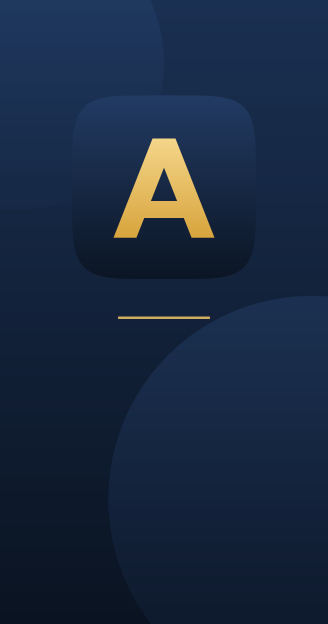
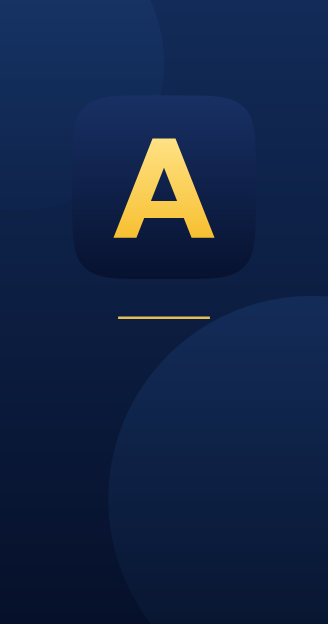
Marka: canlı lacivert ve parlak altın (simge, sihirbaz, masa, başlangıç, eklenti) (#43)
simge.py yeni renklerle: zemin #183064→#071230, altın A #FFE48A→#F7BE2D;
sihirbaz degradesi ve daireleri aynı lacivert ailesinde. Üretilenler
yeniden yazıldı: arthurlegal.ico, sihirbaz.png, sihirbaz-kucuk.png
(piksel afişler değişmedi). Masa kopyası app4all 8c19d57'den (al.css
canlı palet, arma; ayrıca geride kalan d81c250 Tapu açıklaması).
Başlangıç sayfası TR/EN: lacivert #12285a, altın açıkta #b58300, koyuda
#f7c948, koyu zeminler aynı lacivert ailesinden, arma yeni renklerde.
Claude eklentisi: logo.png yeni simgeden, sürüm 1.12.7 (paket aynı,
sınav koşmaz).

Changed region(s): [[0.3354, 0.3045, 0.6707, 0.3958]]

diff --git a/ArthurLegal-setup/kurulum/rehber-en.html b/ArthurLegal-setup/kurulum/rehber-en.html
@@ -5,19 +5,19 @@
 <meta name="viewport" content="width=device-width, initial-scale=1">
 <title>{{URUN}} Start</title>
 <style>
-:root{--zemin:#f6f4ee;--kart:#fff;--yazi:#1b2433;--soluk:#5b6576;--lacivert:#14233c;--altin:#b08d3c;--cizgi:#e3dfd3;--kod:#f1eee6;--yesil:#2e7d4f}
-@media (prefers-color-scheme:dark){:root{--zemin:#0e1522;--kart:#16202f;--yazi:#e8e4da;--soluk:#9aa4b4;--lacivert:#e8e4da;--altin:#d4b36a;--cizgi:#26334a;--kod:#1c2839;--yesil:#57c08a}}
+:root{--zemin:#f6f4ee;--kart:#fff;--yazi:#1b2433;--soluk:#5b6576;--lacivert:#12285a;--altin:#b58300;--cizgi:#e3dfd3;--kod:#f1eee6;--yesil:#2e7d4f}
+@media (prefers-color-scheme:dark){:root{--zemin:#0a1430;--kart:#0e1d3d;--yazi:#e8e4da;--soluk:#9aa4b4;--lacivert:#e8e4da;--altin:#f7c948;--cizgi:#22396a;--kod:#142749;--yesil:#57c08a}}
 *{box-sizing:border-box}body{margin:0;background:var(--zemin);color:var(--yazi);font:16px/1.6 "Segoe UI",system-ui,sans-serif}
 main{max-width:880px;margin:0 auto;padding:36px 16px 64px}
 .baslik-kart{display:flex;align-items:center;gap:18px;max-width:840px;background:var(--kart);border:1px solid var(--cizgi);border-bottom:0;border-radius:14px 14px 0 0;padding:20px 24px}
 .baslik-kart svg{width:64px;height:64px;flex:none}
 .baslik-kart .ad{font-size:32px;font-weight:700;letter-spacing:-.02em;line-height:1.1;color:var(--lacivert)}
 .baslik-kart .ad span{color:var(--altin)}.baslik-kart .alt{font-size:15px;color:var(--soluk);margin-top:2px}
-a.rehber-pdf{display:flex;align-items:center;gap:18px;margin:22px 0 0;padding:22px 26px;background:#14233c;color:#fff;border:2px solid #b08d3c;border-radius:14px;text-decoration:none}
-a.rehber-pdf:hover{background:#1c3152}a.rehber-pdf svg{width:46px;height:46px;flex:none}
+a.rehber-pdf{display:flex;align-items:center;gap:18px;margin:22px 0 0;padding:22px 26px;background:#12285a;color:#fff;border:2px solid #f7c948;border-radius:14px;text-decoration:none}
+a.rehber-pdf:hover{background:#1a3470}a.rehber-pdf svg{width:46px;height:46px;flex:none}
 a.rehber-pdf b{display:block;font-size:24px;line-height:1.25}
 a.rehber-pdf small{display:block;font-size:15px;line-height:1.45;color:#c9d3e0;margin-top:4px}
-a.rehber-pdf .ok{margin-left:auto;font-size:30px;color:#d4b36a}
+a.rehber-pdf .ok{margin-left:auto;font-size:30px;color:#f7c948}
 figure.masa{margin:16px 0 0}figure.masa img{display:block;width:100%;height:auto;border:1px solid var(--cizgi);border-radius:12px;box-shadow:0 6px 24px rgba(13,24,38,.08)}
 figure.masa figcaption{font-size:14px;color:var(--soluk);margin-top:6px}
 .serit{display:flex;height:8px;border-radius:0 0 8px 8px;overflow:hidden;max-width:840px}.serit i{flex:1}
@@ -40,14 +40,14 @@ li{margin:6px 0}footer{margin-top:44px;color:var(--soluk);font-size:14px}
 #durum b{display:block;font-size:12px;letter-spacing:.06em;text-transform:uppercase;color:var(--soluk);font-weight:600}
 #durum span{font-size:15px}
 .dil{text-align:right;margin:0 0 10px;font-size:14px}.dil a{color:var(--lacivert)}
-#paketler .kart{margin:8px 0}.odak{border:2px solid var(--altin)!important;box-shadow:0 0 0 3px rgba(176,141,60,.18)}
+#paketler .kart{margin:8px 0}.odak{border:2px solid var(--altin)!important;box-shadow:0 0 0 3px rgba(181,131,0,.2)}
 </style>
 </head>
 <body>
 <main>
 <nav class="dil" lang="tr"><a href="baslangic.html">Türkçe</a></nav>
 <header>
-  <div class="baslik-kart"><svg class="simge" viewBox="0 0 100 100" role="img" aria-label="ArthurLegal arması"><defs><linearGradient id="alArmaZ" x1="0" y1="0" x2="0" y2="1"><stop offset="0" stop-color="#223B63"/><stop offset="1" stop-color="#0B1524"/></linearGradient><linearGradient id="alArmaA" x1="0" y1="0.2" x2="0" y2="0.8"><stop offset="0" stop-color="#F6D98E"/><stop offset="1" stop-color="#D6A23A"/></linearGradient></defs><path fill="url(#alArmaZ)" d="M100.00 50.00L99.90 69.75L99.61 76.01L99.13 80.49L98.44 84.05L97.55 87.01L96.44 89.52L95.11 91.68L93.53 93.53L91.68 95.11L89.52 96.44L87.01 97.55L84.05 98.44L80.49 99.13L76.01 99.61L69.75 99.90L50.00 100.00L30.25 99.90L23.99 99.61L19.51 99.13L15.95 98.44L12.99 97.55L10.48 96.44L8.32 95.11L6.47 93.53L4.89 91.68L3.56 89.52L2.45 87.01L1.56 84.05L0.87 80.49L0.39 76.01L0.10 69.75L0.00 50.00L0.10 30.25L0.39 23.99L0.87 19.51L1.56 15.95L2.45 12.99L3.56 10.48L4.89 8.32L6.47 6.47L8.32 4.89L10.48 3.56L12.99 2.45L15.95 1.56L19.51 0.87L23.99 0.39L30.25 0.10L50.00 0.00L69.75 0.10L76.01 0.39L80.49 0.87L84.05 1.56L87.01 2.45L89.52 3.56L91.68 4.89L93.53 6.47L95.11 8.32L96.44 10.48L97.55 12.99L98.44 15.95L99.13 19.51L99.61 23.99L99.90 30.25Z"/><path fill="url(#alArmaA)" d="M43.75 23.50L56.25 23.50L35.00 77.50L22.50 77.50ZM43.75 23.50L56.25 23.50L77.50 77.50L65.00 77.50ZM30.50 57.50L69.50 57.50L69.50 66.75L30.50 66.75Z"/></svg><div><div class="ad">Arthur<span>Legal</span></div><div class="alt">Open source legal AI</div></div></div>
+  <div class="baslik-kart"><svg class="simge" viewBox="0 0 100 100" role="img" aria-label="ArthurLegal arması"><defs><linearGradient id="alArmaZ" x1="0" y1="0" x2="0" y2="1"><stop offset="0" stop-color="#183064"/><stop offset="1" stop-color="#071230"/></linearGradient><linearGradient id="alArmaA" x1="0" y1="0.2" x2="0" y2="0.8"><stop offset="0" stop-color="#FFE48A"/><stop offset="1" stop-color="#F7BE2D"/></linearGradient></defs><path fill="url(#alArmaZ)" d="M100.00 50.00L99.90 69.75L99.61 76.01L99.13 80.49L98.44 84.05L97.55 87.01L96.44 89.52L95.11 91.68L93.53 93.53L91.68 95.11L89.52 96.44L87.01 97.55L84.05 98.44L80.49 99.13L76.01 99.61L69.75 99.90L50.00 100.00L30.25 99.90L23.99 99.61L19.51 99.13L15.95 98.44L12.99 97.55L10.48 96.44L8.32 95.11L6.47 93.53L4.89 91.68L3.56 89.52L2.45 87.01L1.56 84.05L0.87 80.49L0.39 76.01L0.10 69.75L0.00 50.00L0.10 30.25L0.39 23.99L0.87 19.51L1.56 15.95L2.45 12.99L3.56 10.48L4.89 8.32L6.47 6.47L8.32 4.89L10.48 3.56L12.99 2.45L15.95 1.56L19.51 0.87L23.99 0.39L30.25 0.10L50.00 0.00L69.75 0.10L76.01 0.39L80.49 0.87L84.05 1.56L87.01 2.45L89.52 3.56L91.68 4.89L93.53 6.47L95.11 8.32L96.44 10.48L97.55 12.99L98.44 15.95L99.13 19.51L99.61 23.99L99.90 30.25Z"/><path fill="url(#alArmaA)" d="M43.75 23.50L56.25 23.50L35.00 77.50L22.50 77.50ZM43.75 23.50L56.25 23.50L77.50 77.50L65.00 77.50ZM30.50 57.50L69.50 57.50L69.50 66.75L30.50 66.75Z"/></svg><div><div class="ad">Arthur<span>Legal</span></div><div class="alt">Open source legal AI</div></div></div>
   <div class="serit"><i style="background:#c8453b"></i><i style="background:#f29b4b"></i><i style="background:#ffe066"></i><i style="background:#3fae6a"></i><i style="background:#5ec8e5"></i><i style="background:#3b7dd8"></i><i style="background:#7b5cc4"></i><i style="background:#b45a9a"></i></div>
 </header>
 
@@ -57,7 +57,7 @@ li{margin:6px 0}footer{margin-top:44px;color:var(--soluk);font-size:14px}
 
 <p data-arayuz="yeni" class="onemli"><b>Important: press Enter to open the desk.</b> When Claude Desktop opens, <i>ArthurLegal Masası'nı aç</i> is already typed in the message box; the message is not sent by itself. Press Enter every time you open it with the <i>{{URUN}}</i> desktop icon, too.</p>
 
-<a class="rehber-pdf" href="https://github.com/beerbottle90/ArthurLegal/blob/main/docs/rehber/ArthurLegal-Kullanici-Rehberi.pdf" target="_blank" rel="noopener"><svg viewBox="0 0 24 24" fill="none" stroke="#d4b36a" stroke-width="1.8" stroke-linecap="round" stroke-linejoin="round" aria-hidden="true"><path d="M14 3H7a2 2 0 0 0-2 2v14a2 2 0 0 0 2 2h10a2 2 0 0 0 2-2V8z"/><path d="M14 3v5h5"/><path d="M9 13h6M9 17h4"/></svg><span><b>User guide (PDF, in Turkish)</b><small>Setup, the ArthurLegal desk, Arthur Mask, the UYAP Dashboard and frequently asked questions in one document · opens on GitHub</small></span><span class="ok" aria-hidden="true">→</span></a>
+<a class="rehber-pdf" href="https://github.com/beerbottle90/ArthurLegal/blob/main/docs/rehber/ArthurLegal-Kullanici-Rehberi.pdf" target="_blank" rel="noopener"><svg viewBox="0 0 24 24" fill="none" stroke="#f7c948" stroke-width="1.8" stroke-linecap="round" stroke-linejoin="round" aria-hidden="true"><path d="M14 3H7a2 2 0 0 0-2 2v14a2 2 0 0 0 2 2h10a2 2 0 0 0 2-2V8z"/><path d="M14 3v5h5"/><path d="M9 13h6M9 17h4"/></svg><span><b>User guide (PDF, in Turkish)</b><small>Setup, the ArthurLegal desk, Arthur Mask, the UYAP Dashboard and frequently asked questions in one document · opens on GitHub</small></span><span class="ok" aria-hidden="true">→</span></a>
 
 <p data-arayuz="yeni"><b>ArthurLegal desk.</b> The <i>{{URUN}}</i> icon on the desktop opens Claude Desktop with <i>ArthurLegal Masası'nı aç</i> already typed; press Enter and the desk opens full screen: modules on the left (legislation and citations, case law, Tapu, Memory, Arthur Mask, UYAP, Donna), the steps in the middle, Claude's message box at the bottom. Every click on the icon also opens this page in the browser.</p>
 <figure data-arayuz="yeni" class="masa"><img src="masa.png" width="1200" height="879" alt="The opening screen of the ArthurLegal desk: modules on the left, cards to start work in the middle"><figcaption>The desk's opening screen (light theme; dark and automatic at the bottom left).</figcaption></figure>

diff --git a/ArthurLegal-setup/kurulum/rehber.html b/ArthurLegal-setup/kurulum/rehber.html
@@ -5,19 +5,19 @@
 <meta name="viewport" content="width=device-width, initial-scale=1">
 <title>{{URUN}} Başlangıç</title>
 <style>
-:root{--zemin:#f6f4ee;--kart:#fff;--yazi:#1b2433;--soluk:#5b6576;--lacivert:#14233c;--altin:#b08d3c;--cizgi:#e3dfd3;--kod:#f1eee6;--yesil:#2e7d4f}
-@media (prefers-color-scheme:dark){:root{--zemin:#0e1522;--kart:#16202f;--yazi:#e8e4da;--soluk:#9aa4b4;--lacivert:#e8e4da;--altin:#d4b36a;--cizgi:#26334a;--kod:#1c2839;--yesil:#57c08a}}
+:root{--zemin:#f6f4ee;--kart:#fff;--yazi:#1b2433;--soluk:#5b6576;--lacivert:#12285a;--altin:#b58300;--cizgi:#e3dfd3;--kod:#f1eee6;--yesil:#2e7d4f}
+@media (prefers-color-scheme:dark){:root{--zemin:#0a1430;--kart:#0e1d3d;--yazi:#e8e4da;--soluk:#9aa4b4;--lacivert:#e8e4da;--altin:#f7c948;--cizgi:#22396a;--kod:#142749;--yesil:#57c08a}}
 *{box-sizing:border-box}body{margin:0;background:var(--zemin);color:var(--yazi);font:16px/1.6 "Segoe UI",system-ui,sans-serif}
 main{max-width:880px;margin:0 auto;padding:36px 16px 64px}
 .baslik-kart{display:flex;align-items:center;gap:18px;max-width:840px;background:var(--kart);border:1px solid var(--cizgi);border-bottom:0;border-radius:14px 14px 0 0;padding:20px 24px}
 .baslik-kart svg{width:64px;height:64px;flex:none}
 .baslik-kart .ad{font-size:32px;font-weight:700;letter-spacing:-.02em;line-height:1.1;color:var(--lacivert)}
 .baslik-kart .ad span{color:var(--altin)}.baslik-kart .alt{font-size:15px;color:var(--soluk);margin-top:2px}
-a.rehber-pdf{display:flex;align-items:center;gap:18px;margin:22px 0 0;padding:22px 26px;background:#14233c;color:#fff;border:2px solid #b08d3c;border-radius:14px;text-decoration:none}
-a.rehber-pdf:hover{background:#1c3152}a.rehber-pdf svg{width:46px;height:46px;flex:none}
+a.rehber-pdf{display:flex;align-items:center;gap:18px;margin:22px 0 0;padding:22px 26px;background:#12285a;color:#fff;border:2px solid #f7c948;border-radius:14px;text-decoration:none}
+a.rehber-pdf:hover{background:#1a3470}a.rehber-pdf svg{width:46px;height:46px;flex:none}
 a.rehber-pdf b{display:block;font-size:24px;line-height:1.25}
 a.rehber-pdf small{display:block;font-size:15px;line-height:1.45;color:#c9d3e0;margin-top:4px}
-a.rehber-pdf .ok{margin-left:auto;font-size:30px;color:#d4b36a}
+a.rehber-pdf .ok{margin-left:auto;font-size:30px;color:#f7c948}
 figure.masa{margin:16px 0 0}figure.masa img{display:block;width:100%;height:auto;border:1px solid var(--cizgi);border-radius:12px;box-shadow:0 6px 24px rgba(13,24,38,.08)}
 figure.masa figcaption{font-size:14px;color:var(--soluk);margin-top:6px}
 .serit{display:flex;height:8px;border-radius:0 0 8px 8px;overflow:hidden;max-width:840px}.serit i{flex:1}
@@ -40,14 +40,14 @@ li{margin:6px 0}footer{margin-top:44px;color:var(--soluk);font-size:14px}
 #durum b{display:block;font-size:12px;letter-spacing:.06em;text-transform:uppercase;color:var(--soluk);font-weight:600}
 #durum span{font-size:15px}
 .dil{text-align:right;margin:0 0 10px;font-size:14px}.dil a{color:var(--lacivert)}
-#paketler .kart{margin:8px 0}.odak{border:2px solid var(--altin)!important;box-shadow:0 0 0 3px rgba(176,141,60,.18)}
+#paketler .kart{margin:8px 0}.odak{border:2px solid var(--altin)!important;box-shadow:0 0 0 3px rgba(181,131,0,.2)}
 </style>
 </head>
 <body>
 <main>
 <nav class="dil" lang="en"><a href="baslangic-en.html">English</a></nav>
 <header>
-  <div class="baslik-kart"><svg class="simge" viewBox="0 0 100 100" role="img" aria-label="ArthurLegal arması"><defs><linearGradient id="alArmaZ" x1="0" y1="0" x2="0" y2="1"><stop offset="0" stop-color="#223B63"/><stop offset="1" stop-color="#0B1524"/></linearGradient><linearGradient id="alArmaA" x1="0" y1="0.2" x2="0" y2="0.8"><stop offset="0" stop-color="#F6D98E"/><stop offset="1" stop-color="#D6A23A"/></linearGradient></defs><path fill="url(#alArmaZ)" d="M100.00 50.00L99.90 69.75L99.61 76.01L99.13 80.49L98.44 84.05L97.55 87.01L96.44 89.52L95.11 91.68L93.53 93.53L91.68 95.11L89.52 96.44L87.01 97.55L84.05 98.44L80.49 99.13L76.01 99.61L69.75 99.90L50.00 100.00L30.25 99.90L23.99 99.61L19.51 99.13L15.95 98.44L12.99 97.55L10.48 96.44L8.32 95.11L6.47 93.53L4.89 91.68L3.56 89.52L2.45 87.01L1.56 84.05L0.87 80.49L0.39 76.01L0.10 69.75L0.00 50.00L0.10 30.25L0.39 23.99L0.87 19.51L1.56 15.95L2.45 12.99L3.56 10.48L4.89 8.32L6.47 6.47L8.32 4.89L10.48 3.56L12.99 2.45L15.95 1.56L19.51 0.87L23.99 0.39L30.25 0.10L50.00 0.00L69.75 0.10L76.01 0.39L80.49 0.87L84.05 1.56L87.01 2.45L89.52 3.56L91.68 4.89L93.53 6.47L95.11 8.32L96.44 10.48L97.55 12.99L98.44 15.95L99.13 19.51L99.61 23.99L99.90 30.25Z"/><path fill="url(#alArmaA)" d="M43.75 23.50L56.25 23.50L35.00 77.50L22.50 77.50ZM43.75 23.50L56.25 23.50L77.50 77.50L65.00 77.50ZM30.50 57.50L69.50 57.50L69.50 66.75L30.50 66.75Z"/></svg><div><div class="ad">Arthur<span>Legal</span></div><div class="alt">Açık kaynak hukuk yapay zekâsı</div></div></div>
+  <div class="baslik-kart"><svg class="simge" viewBox="0 0 100 100" role="img" aria-label="ArthurLegal arması"><defs><linearGradient id="alArmaZ" x1="0" y1="0" x2="0" y2="1"><stop offset="0" stop-color="#183064"/><stop offset="1" stop-color="#071230"/></linearGradient><linearGradient id="alArmaA" x1="0" y1="0.2" x2="0" y2="0.8"><stop offset="0" stop-color="#FFE48A"/><stop offset="1" stop-color="#F7BE2D"/></linearGradient></defs><path fill="url(#alArmaZ)" d="M100.00 50.00L99.90 69.75L99.61 76.01L99.13 80.49L98.44 84.05L97.55 87.01L96.44 89.52L95.11 91.68L93.53 93.53L91.68 95.11L89.52 96.44L87.01 97.55L84.05 98.44L80.49 99.13L76.01 99.61L69.75 99.90L50.00 100.00L30.25 99.90L23.99 99.61L19.51 99.13L15.95 98.44L12.99 97.55L10.48 96.44L8.32 95.11L6.47 93.53L4.89 91.68L3.56 89.52L2.45 87.01L1.56 84.05L0.87 80.49L0.39 76.01L0.10 69.75L0.00 50.00L0.10 30.25L0.39 23.99L0.87 19.51L1.56 15.95L2.45 12.99L3.56 10.48L4.89 8.32L6.47 6.47L8.32 4.89L10.48 3.56L12.99 2.45L15.95 1.56L19.51 0.87L23.99 0.39L30.25 0.10L50.00 0.00L69.75 0.10L76.01 0.39L80.49 0.87L84.05 1.56L87.01 2.45L89.52 3.56L91.68 4.89L93.53 6.47L95.11 8.32L96.44 10.48L97.55 12.99L98.44 15.95L99.13 19.51L99.61 23.99L99.90 30.25Z"/><path fill="url(#alArmaA)" d="M43.75 23.50L56.25 23.50L35.00 77.50L22.50 77.50ZM43.75 23.50L56.25 23.50L77.50 77.50L65.00 77.50ZM30.50 57.50L69.50 57.50L69.50 66.75L30.50 66.75Z"/></svg><div><div class="ad">Arthur<span>Legal</span></div><div class="alt">Açık kaynak hukuk yapay zekâsı</div></div></div>
   <div class="serit"><i style="background:#c8453b"></i><i style="background:#f29b4b"></i><i style="background:#ffe066"></i><i style="background:#3fae6a"></i><i style="background:#5ec8e5"></i><i style="background:#3b7dd8"></i><i style="background:#7b5cc4"></i><i style="background:#b45a9a"></i></div>
 </header>
 
@@ -57,7 +57,7 @@ li{margin:6px 0}footer{margin-top:44px;color:var(--soluk);font-size:14px}
 
 <p data-arayuz="yeni" class="onemli"><b>Önemli: masayı açmak için Enter'a basın.</b> Claude Desktop açıldığında yazma kutusunda <i>ArthurLegal Masası'nı aç</i> yazılı gelir; mesaj kendiliğinden gönderilmez. Masaüstündeki <i>{{URUN}}</i> simgesiyle her açılışta da Enter'a basın.</p>
 
-<a class="rehber-pdf" href="https://github.com/beerbottle90/ArthurLegal/blob/main/docs/rehber/ArthurLegal-Kullanici-Rehberi.pdf" target="_blank" rel="noopener"><svg viewBox="0 0 24 24" fill="none" stroke="#d4b36a" stroke-width="1.8" stroke-linecap="round" stroke-linejoin="round" aria-hidden="true"><path d="M14 3H7a2 2 0 0 0-2 2v14a2 2 0 0 0 2 2h10a2 2 0 0 0 2-2V8z"/><path d="M14 3v5h5"/><path d="M9 13h6M9 17h4"/></svg><span><b>Kullanıcı Rehberi (PDF)</b><small>Kurulum, ArthurLegal Masası, Arthur Mask, UYAP Dashboard ve sık sorulanlar tek belgede · GitHub'da açılır</small></span><span class="ok" aria-hidden="true">→</span></a>
+<a class="rehber-pdf" href="https://github.com/beerbottle90/ArthurLegal/blob/main/docs/rehber/ArthurLegal-Kullanici-Rehberi.pdf" target="_blank" rel="noopener"><svg viewBox="0 0 24 24" fill="none" stroke="#f7c948" stroke-width="1.8" stroke-linecap="round" stroke-linejoin="round" aria-hidden="true"><path d="M14 3H7a2 2 0 0 0-2 2v14a2 2 0 0 0 2 2h10a2 2 0 0 0 2-2V8z"/><path d="M14 3v5h5"/><path d="M9 13h6M9 17h4"/></svg><span><b>Kullanıcı Rehberi (PDF)</b><small>Kurulum, ArthurLegal Masası, Arthur Mask, UYAP Dashboard ve sık sorulanlar tek belgede · GitHub'da açılır</small></span><span class="ok" aria-hidden="true">→</span></a>
 
 <p data-arayuz="yeni"><b>ArthurLegal Masası.</b> Masaüstündeki <i>{{URUN}}</i> simgesi Claude Desktop'u <i>ArthurLegal Masası'nı aç</i> mesajı yazılmış olarak açar; Enter'a basınca masa tam ekran açılır: solda modüller (mevzuat ve atıf, içtihat, Tapu, Hafıza, Arthur Mask, UYAP, Donna), ortada iş adımları, altta Claude'un yazma kutusu. Simge her tıklamada bu sayfayı da tarayıcıda açar.</p>
 <figure data-arayuz="yeni" class="masa"><img src="masa.png" width="1200" height="879" alt="ArthurLegal Masası'nın açılış ekranı: solda modüller, ortada işe başlama kartları"><figcaption>Masanın açılış ekranı (açık tema; koyu ve otomatik sol altta).</figcaption></figure>

diff --git a/ArthurLegal-setup/istemci/arayuz/ortak/tasarim/al.css b/ArthurLegal-setup/istemci/arayuz/ortak/tasarim/al.css
@@ -2,6 +2,8 @@
 
    Açık tema (varsayılan): beyaz zemin, siyah yazı; renkler ArthurLegal Kullanıcı Rehberi'nden.
    Koyu tema: AL lacivertinin üstünde kırık beyaz yazı, altın aynı kalır.
+   Renkler 30.10.2026'da canlandı: lacivert maviye kaymadan doygun (#12285a), altın parlak (#f7c948);
+   arma simge.py'den (#183064→#071230 zemin, #FFE48A→#F7BE2D altın).
    Biçim: Apple/Microsoft gibi yumuşak yüzeyler, kapsül düğmeler, cihazın sistem yazı tipi.
    Tema seçimi al.js'tedir: <html data-tema="acik|koyu">. */
 
@@ -10,20 +12,20 @@
   --yuzey: #ffffff;
   --grup: #f6f5f1;
   --grup-ust: #efede6;
-  --alan: rgb(224 178 76 / 0.12);
+  --alan: rgb(247 201 72 / 0.12);
   --cizgi: rgb(13 24 38 / 0.10);
   --cizgi-guclu: rgb(13 24 38 / 0.18);
   --metin: #0d1117;
   --ikincil: #4b5565;
   --soluk: #808a99;
-  --altin: #e0b24c;
-  --altin-metin: #87621f;
-  --lacivert: #0d1826;
-  --birincil: #0d1826;
+  --altin: #f7c948;
+  --altin-metin: #8a6400;
+  --lacivert: #12285a;
+  --birincil: #12285a;
   --birincil-yazi: #ffffff;
   --dolgu: rgb(118 118 128 / 0.12);
   --dolgu-ust: rgb(118 118 128 / 0.20);
-  --secili: rgb(224 178 76 / 0.16);
+  --secili: rgb(247 201 72 / 0.16);
   --nane-metin: #1f7a52;   --nane-zemin: #eaf6f0;
   --amber-metin: #87621f;  --amber-zemin: #fbf3e0;
   --kirmizi-metin: #b43d2a; --kirmizi-zemin: #fceeeb;
@@ -49,23 +51,23 @@
 }
 
 :root[data-tema="koyu"] {
-  --zemin: #0b1220;
-  --yuzey: #111a2b;
-  --grup: #172238;
-  --grup-ust: #1d2a44;
-  --alan: rgb(224 178 76 / 0.12);
+  --zemin: #0a1430;
+  --yuzey: #0e1d3d;
+  --grup: #142749;
+  --grup-ust: #1a3057;
+  --alan: rgb(247 201 72 / 0.12);
   --cizgi: rgb(255 255 255 / 0.08);
   --cizgi-guclu: rgb(255 255 255 / 0.16);
   --metin: #f2f4f8;
   --ikincil: #a7b3c6;
   --soluk: #7c889c;
-  --altin-metin: #e7c26a;
+  --altin-metin: #f7cd55;
   --lacivert: #e8e4da;
-  --birincil: #e0b24c;
-  --birincil-yazi: #0b1220;
+  --birincil: #f7c948;
+  --birincil-yazi: #0a1430;
   --dolgu: rgb(255 255 255 / 0.07);
   --dolgu-ust: rgb(255 255 255 / 0.12);
-  --secili: rgb(224 178 76 / 0.16);
+  --secili: rgb(247 201 72 / 0.16);
   --nane-metin: #6fd3a4;   --nane-zemin: rgb(63 169 124 / 0.16);
   --amber-metin: #e7c26a;  --amber-zemin: rgb(224 178 76 / 0.15);
   --kirmizi-metin: #f08a78; --kirmizi-zemin: rgb(229 83 63 / 0.16);

diff --git a/ArthurLegal-setup/istemci/arayuz/ortak/gorunumler/masa.html b/ArthurLegal-setup/istemci/arayuz/ortak/gorunumler/masa.html
@@ -1234,6 +1234,11 @@ body { background: var(--zemin); }
   // ---- ArthurTapu ----
   CIZIM.tapu = (ekran) => {
     const d = modulDurumu("tapu");
+    // Tapu araçları bu uçta yoksa (Claude dizinindeki sürüm) form Claude'a yapamayacağı bir iş bırakmasın.
+    if (d === "masaustu") {
+      ekran.append(bilgi("ArthurTapu bu bağlantıda yok. Parsel sorgusu ArthurLegal kurulumunda ve ArthurLegal'in kendi bağlantısında çalışır."));
+      return;
+    }
     const form = ogesi("form", "form");
     const yer = girdi("text", "Kadıköy Caferağa 123 ada 45 parsel");
     const satir = ogesi("div", "satir");

diff --git a/ArthurLegal-setup/varlik/simge.py b/ArthurLegal-setup/varlik/simge.py
@@ -26,9 +26,10 @@ Renk = Tuple[int, int, int]
 
 ALT = 4                                  # piksel başına alt satır (dikey yumuşatma)
 
-# AL renkleri (kullanıcı rehberi): lacivert zemin, altın işaret.
-ZEMIN_UST, ZEMIN_ALT = (0x22, 0x3B, 0x63), (0x0B, 0x15, 0x24)
-ALTIN_UST, ALTIN_ALT = (0xF6, 0xD9, 0x8E), (0xD6, 0xA2, 0x3A)
+# AL renkleri: canlı lacivert zemin (maviye kaymaz), parlak altın işaret (30.10.2026; önceki #223B63→#0B1524,
+# #F6D98E→#D6A23A soluk kalıyordu).
+ZEMIN_UST, ZEMIN_ALT = (0x18, 0x30, 0x64), (0x07, 0x12, 0x30)
+ALTIN_UST, ALTIN_ALT = (0xFF, 0xE4, 0x8A), (0xF7, 0xBE, 0x2D)
 KENAR_IZI = (0xFF, 0xFF, 0xFF)           # üst kenarda ince ışık
 
 
@@ -211,7 +212,7 @@ def sihirbaz_tuvali(en: int = 328, boy: int = 624) -> Tuval:
     """Kurulum sihirbazının sol görseli (Inno 164x312'nin iki katı): lacivert degrade, yumuşak iki daire, ortada
     simge. Yazı yok: ürün adı sihirbazın kendi metninde."""
     t = Tuval(en, boy)
-    t.boya([[(0, 0), (1, 0), (1, 1), (0, 1)]], (0x1A, 0x30, 0x52), (0x0A, 0x13, 0x21))
+    t.boya([[(0, 0), (1, 0), (1, 1), (0, 1)]], (0x12, 0x2B, 0x58), (0x06, 0x10, 0x2A))
     oran = boy / en
 
     def daire_birim(cx: float, cy: float, r: float) -> List[Nokta]:
@@ -219,8 +220,8 @@ def sihirbaz_tuvali(en: int = 328, boy: int = 624) -> Tuval:
         return [(cx + r * math.cos(2 * math.pi * i / 96), cy + r / oran * math.sin(2 * math.pi * i / 96))
                 for i in range(96)]
 
-    t.boya([daire_birim(0.95, 0.80, 0.62)], (0x2B, 0x4A, 0x7A), (0x14, 0x26, 0x42), 0.5, 1.0, saydamlik=0.35)
-    t.boya([daire_birim(0.05, 0.10, 0.45)], (0x2E, 0x50, 0x84), (0x1A, 0x30, 0x52), 0.0, 0.3, saydamlik=0.25)
+    t.boya([daire_birim(0.95, 0.80, 0.62)], (0x1F, 0x44, 0x7F), (0x0D, 0x22, 0x41), 0.5, 1.0, saydamlik=0.35)
+    t.boya([daire_birim(0.05, 0.10, 0.45)], (0x21, 0x4A, 0x89), (0x12, 0x2B, 0x58), 0.0, 0.3, saydamlik=0.25)
     # Simge ortada, üstten üçte birde; ince altın çizgi altında.
     boyut = 0.56
     x0, y0 = (1 - boyut) / 2, 0.30 - boyut / 2 / oran

diff --git a/ArthurLegal-plugin/README.md b/ArthurLegal-plugin/README.md
@@ -7,7 +7,7 @@ finance, expert opinions, contract drafting and law firm operations. Statutes an
 text through ArthurLegal MCP, which covers 12 jurisdictions from Türkiye and the EU to the UK, Germany and
 Japan, plus legal-entity identity, open-access legal scholarship and published resource contracts.
 
-Plugin version 1.12.6, built from the ArthurLegal Law Firm package 1.12.5. Source: [https://github.com/beerbottle90/ArthurLegal](https://github.com/beerbottle90/ArthurLegal).
+Plugin version 1.12.7, built from the ArthurLegal Law Firm package 1.12.5. Source: [https://github.com/beerbottle90/ArthurLegal](https://github.com/beerbottle90/ArthurLegal).
 
 ## What it contains
 
